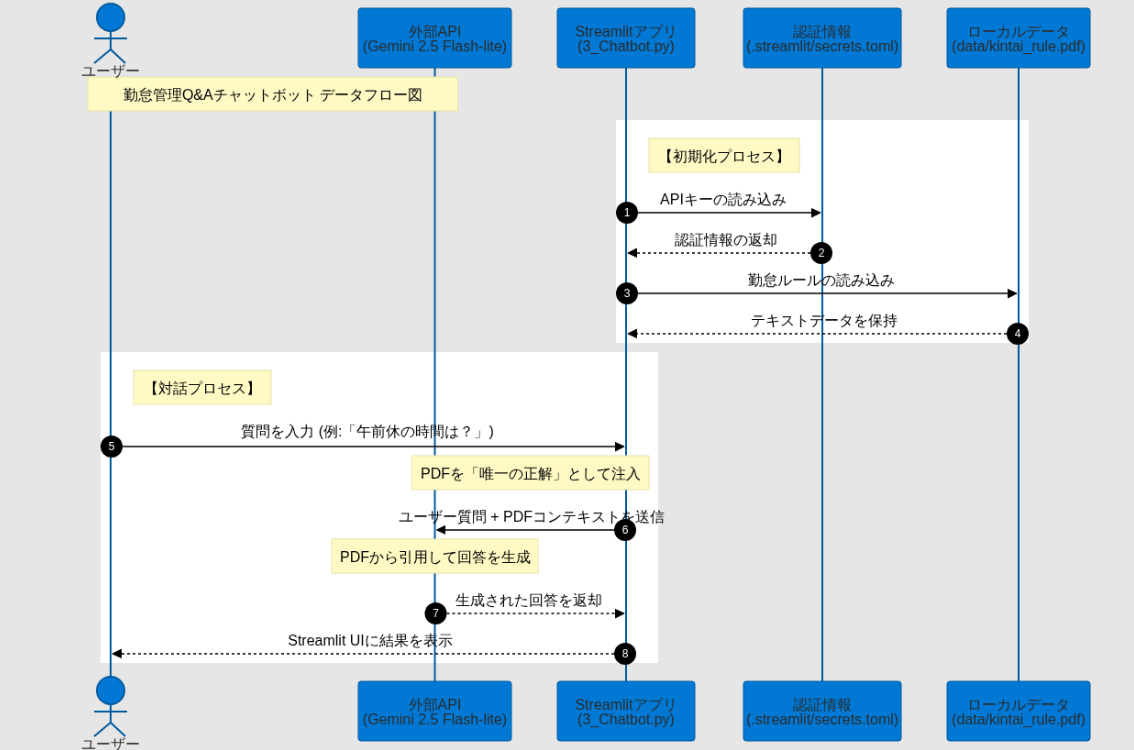
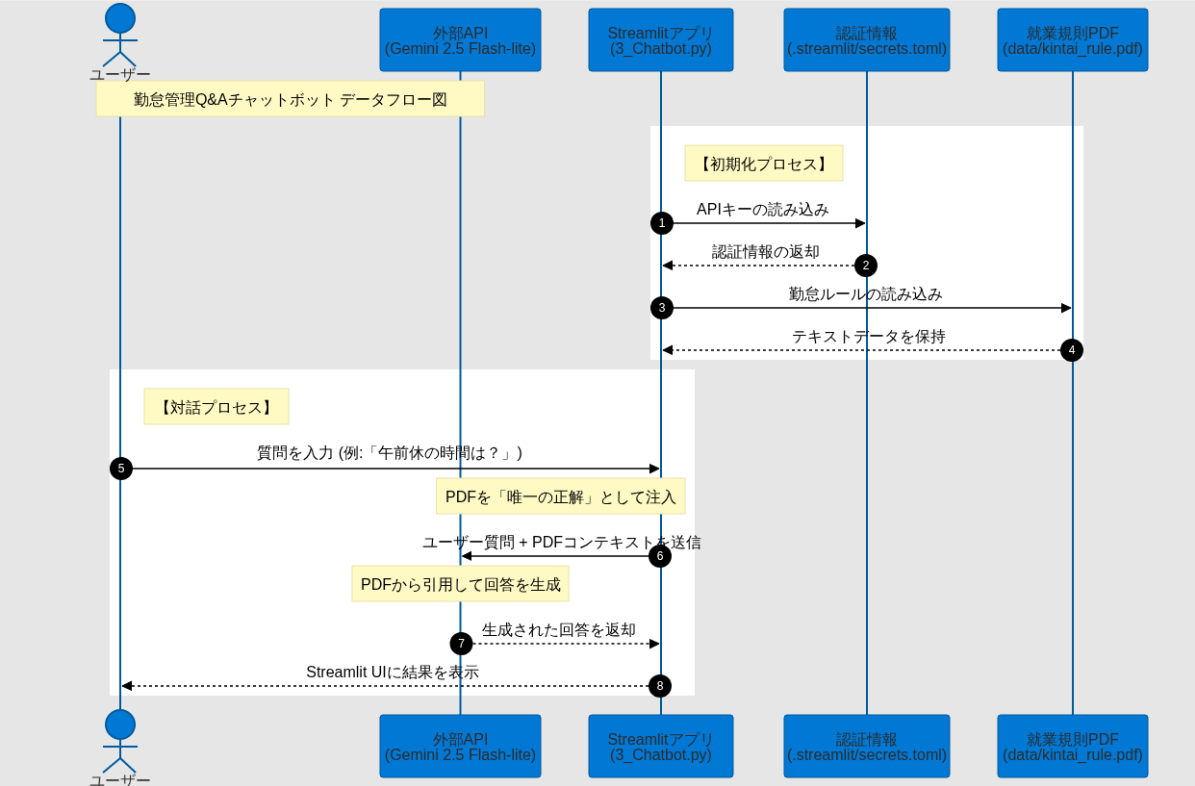
feat: 解決確認ボタンの実装とURL・プロンプトの管理最適化

diff --git a/pages/3_Chatbot.py b/pages/3_Chatbot.py
@@ -80,14 +80,41 @@ if os.path.exists(pdf_path):
         if i == 0:
             st.caption("💡 よくある質問例：")
             # 縦に並べる。keyを固定することで、再実行されてもボタンの状態が維持されます。
-            if st.button("🕒 午前休の出勤時間は？", key="btn_faq_1"):
-                selected_question = "午前休の出勤時間は？"
+            if st.button("🕒 時差出勤の昼休憩の時間は？", key="btn_faq_1"):
+                selected_question = "時差出勤の昼休憩の時間は？"
             if st.button("📝 時差出勤の申請ルール", key="btn_faq_2"):
                 selected_question = "時差出勤のルールは？"
             if st.button("🆘 急に休みたくなった時は？", key="btn_faq_3"):
                 selected_question = "急に休みたくなった時は？"
             if st.button("🚃 電車が遅延した場合は？", key="btn_faq_4"):
                 selected_question = "電車が遅延した場合は？"
+
+        # AIの回答（assistant）に対して「解決ボタン」を表示
+            if msg["role"] == "assistant" and i > 0:
+                st.divider()
+                st.write("💡 **解決しましたか？**")
+                
+                # ボタンのキーを一意にする
+                btn_key_id = i 
+                
+                col1, col2 = st.columns(2)
+                with col1:
+                    if st.button("👍 はい", key=f"yes_{btn_key_id}", use_container_width=True):
+                        st.session_state[f"status_{btn_key_id}"] = "resolved"
+                with col2:
+                    if st.button("👎 いいえ", key=f"no_{btn_key_id}", use_container_width=True):
+                        st.session_state[f"status_{btn_key_id}"] = "unresolved"
+
+                # 状態のチェックとメッセージ表示
+                status = st.session_state.get(f"status_{btn_key_id}")
+                if status == "resolved":
+                    st.success("ご利用ありがとうございました！")
+                elif status == "unresolved":
+                    form_url = st.secrets["contact"]["form_url"]
+                    esc_msg = st.secrets["contact"]["escalation_msg"]
+                    st.info(f"{esc_msg}\n\n👉 [勤怠問い合わせフォーム]({form_url})")
+                    st.warning("⚠ **緊急の場合**は上司へお電話ください。")
+
     # チャット入力
     chat_prompt = st.chat_input("勤怠について質問してください")
 
@@ -118,11 +145,12 @@ if os.path.exists(pdf_path):
                             temperature=0.1,
                         )
                     )
-                
+
                     # 3. 結果を画面表示 & 履歴（保存用）に追加
                     ans_text = response.text
                     st.markdown(ans_text)
-                
+
+
                     # 次回の会話のために履歴に蓄積
                     st.session_state.chat_history.append(types.Content(role="user", parts=[types.Part.from_text(text=final_prompt)]))
                     st.session_state.chat_history.append(types.Content(role="model", parts=[types.Part.from_text(text=ans_text)]))

diff --git a/pages/2_Architecture.py b/pages/2_Architecture.py
@@ -36,7 +36,7 @@ def main():
                 * **APIキーの読み込み・認証情報の返却**:
                 `.streamlit/secrets.toml` から安全に認証情報を取得。ソースコードに機密情報を残さない**セキュリティ設計**を徹底しています。
                 * **勤怠ルールの読み込み・テキストデータの保持**:
-                規定PDFからテキストを抽出し、メモリ上に保持。これがAIの回答の「根拠」となる**ナレッジベース**となります。
+                就業規則PDFからテキストを抽出し、メモリ上に保持。これがAIの回答の「根拠」となる**ナレッジベース**となります。
                 """)
 
             # 2. 対話プロセスの解説
@@ -76,14 +76,19 @@ def main():
 
     with col2:
         st.subheader("💡 設計におけるこだわりポイント")
-        # 資格と結びつけたアピール
         st.info("""
-        **【セキュリティ & メンテナンス性】**
-        -   **APIキーの隠蔽**: `.gitignore` を適切に設定し、機密情報を GitHub に流出させない実務的な設計
-        -   **環境の再現性**: `requirements.txt` にライブラリのバージョンを明記し、誰でも同じ環境を構築可能に
+        **【セキュリティ & 信頼性】**
+        - **機密情報の完全分離**:
+        - `secrets.toml` を活用し、APIキー等の秘匿情報をソースコードから完全に排除。
+        - `.gitignore` により、社外秘の「就業規則PDF」を GitHub リポジトリに含めない運用を徹底。
+        - **ハルシネーション（AIの嘘）対策**:
+        - プロンプトエンジニアリングにより、資料外の「推測回答」や「計算」を厳格に禁止。
+        - 回答の根拠をPDFから直接引用させることで、業務利用に耐えうる正確性を確保。
 
-        **【AI精度の向上 (RAG)】**
-        -   ただチャットするだけでなく、社内規定PDFをコンテキストとして与えることで、正確な回答を導く設計
+        **【保守性 & 実務設計】**
+        - **環境の再現性**: `requirements.txt` にてライブラリを固定し、依存関係による不具合を防止。
+        - **エスカレーション設計**:
+        - AIで解決しない場合を想定し、管理者への問い合わせフォームに誘導（ボタン機能）を実装。
         """)
 
 if __name__ == "__main__":
